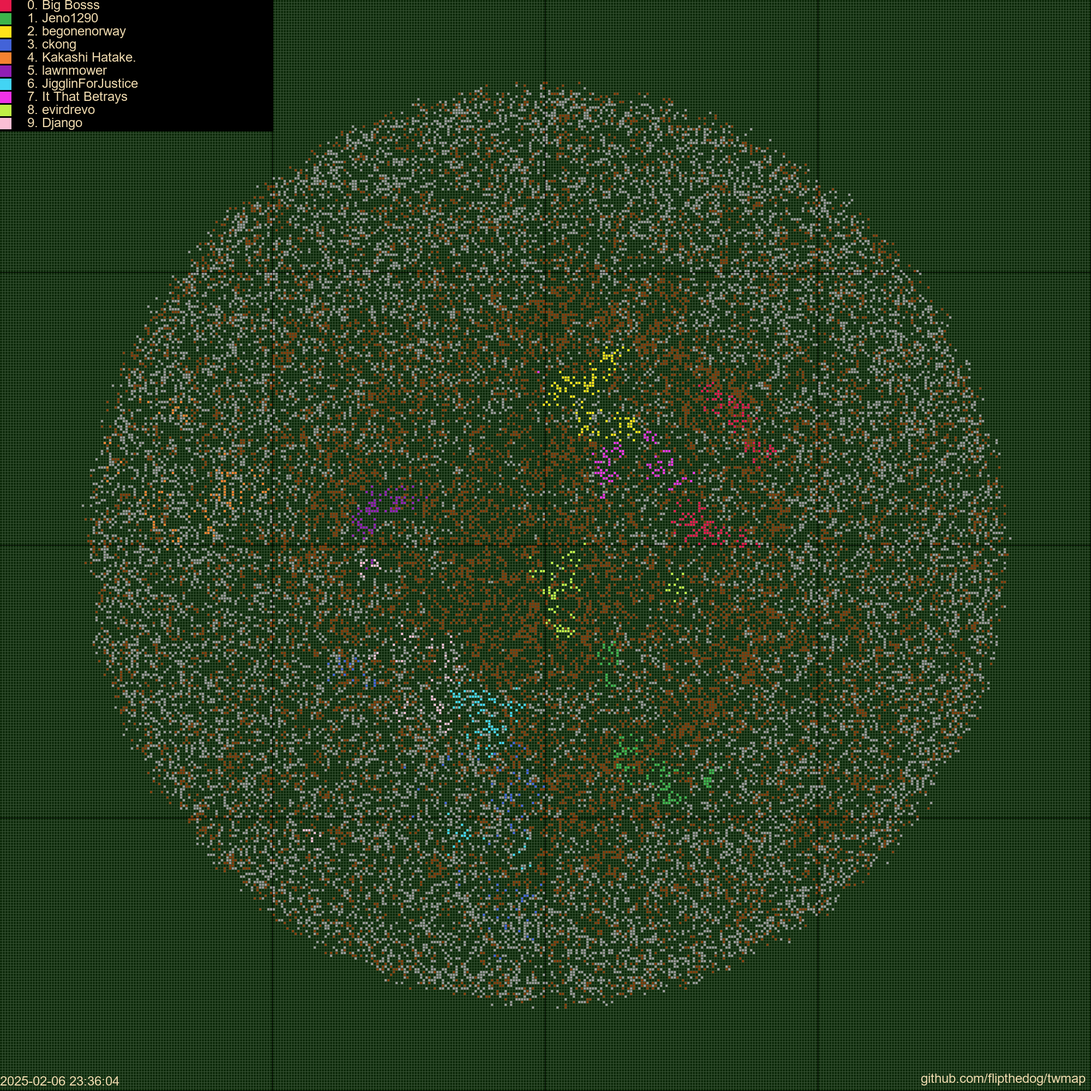
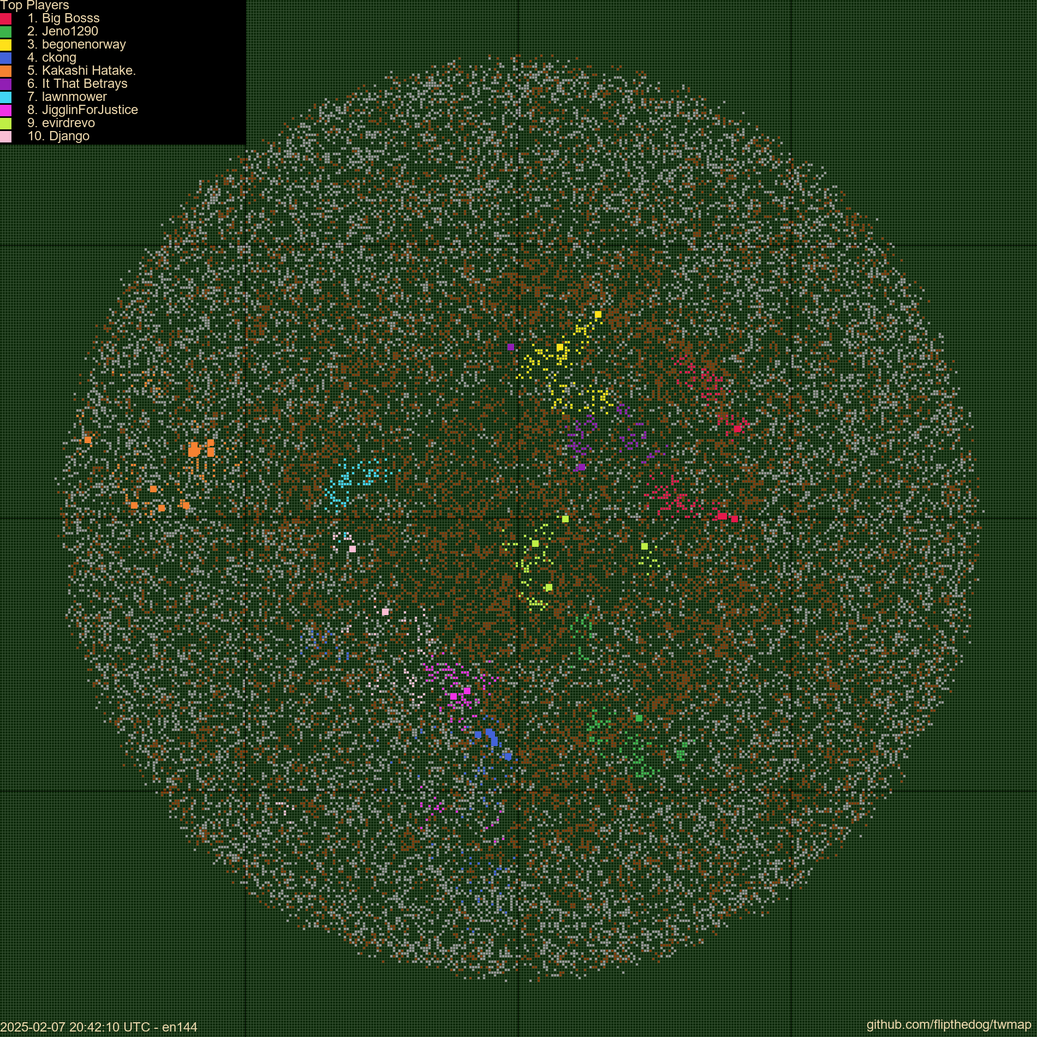
minor touches to make it look better

diff --git a/twmap/map/map.py b/twmap/map/map.py
@@ -18,7 +18,7 @@ from copy import deepcopy
 
 class Map:
 
-    def __init__(self, village_df: DataFrame, player_df: DataFrame, tribe_df: DataFrame, conquer_df: DataFrame, printed_datetime: str = None):
+    def __init__(self, village_df: DataFrame, player_df: DataFrame, tribe_df: DataFrame, conquer_df: DataFrame, printed_datetime: str = None, printed_world: str = None):
         """Load it with TW data and create a map
 
         Args:
@@ -34,7 +34,8 @@ class Map:
         self.conquer_df = conquer_df
         
         self.printed_datetime = printed_datetime
-
+        self.printed_world = printed_world
+        
         if self.printed_datetime is None:
             self.printed_datetime = datetime.now(timezone.utc).strftime("%Y-%m-%d %H:%M:%S")
             # TODO: read this from the file
@@ -58,9 +59,10 @@ class Map:
 
         self.show_barbarians = True
 
-        self.max_x = 0
-        self.max_y = 0
-
+        self.max_x = self.village_df['x_coord'].max() - self.world_origin + 20
+        self.max_y = self.village_df['y_coord'].max() - self.world_origin + 20
+        self.max_border = max(self.max_x, self.max_y)
+                
         self.zoom = 3
 
         self.cell_size = 4
@@ -88,7 +90,8 @@ class Map:
 
         self.grid_color = self.color_manager.grid_color
 
-        self.font = ImageFont.truetype("twmap/map/fonts/ARIAL.TTF", 24)  # Load the font here
+        self.font_size = 32
+        self.font = ImageFont.truetype("twmap/map/fonts/ARIAL.TTF", self.font_size)  # Load the font here
 
         self.initial_map()
 
@@ -160,7 +163,7 @@ class Map:
 
     def draw_legend(self, top_type: str = "players", image: Image = None):
         
-        image = self.crop_image(image, 200)
+        image = self.crop_image(image)
 
         if self.watermark:  
             image = self.watermark("github.com/flipthedog/twmap")
@@ -181,13 +184,13 @@ class Map:
             raise ValueError("Invalid top_type. Expected 'players' or 'tribes'.")
 
         # Add background
-        draw.rectangle([0, 0, 500, (len(ids) + 1) * 24], fill="#000000")
+        draw.rectangle([0, 0, 450, (len(ids) + 1) * self.font_size], fill="#000000")
 
         draw.text((0, 0), f"Top {top_type.capitalize()}", fill=self.tw_color, font=self.font, anchor="lt")
         
         for i in range(0, len(ids)):
-            draw.text((50, (i + 1) * 24), f"{i + 1}. {urllib.parse.unquote_plus(names[i])}", fill=self.tw_color, font=self.font, anchor="lt")
-            draw.rectangle([0, (i + 1) * 24, 20, (i + 1) * 24 + 20], fill=self.color_manager.get_color(ids[i]))
+            draw.text((50, (i + 1) * self.font_size), f"{i + 1}. {urllib.parse.unquote_plus(names[i])}", fill=self.tw_color, font=self.font, anchor="lt")
+            draw.rectangle([0, (i + 1) * self.font_size, 20, (i + 1) * self.font_size + 20], fill=self.color_manager.get_color(ids[i]))
 
         return image
 
@@ -215,9 +218,12 @@ class Map:
 
         return self.image
     
-    def crop_image(self, image: Image, spacing: int):
+    def crop_image(self, image: Image):
+        
+        spacing = self.max_border
         
         self.image =  image.crop(((self.world_origin - spacing) * (self.cell_size + self.spacing), (self.world_origin - spacing) * (self.cell_size + self.spacing), (self.world_origin + spacing) * (self.cell_size + self.spacing), (self.world_origin + spacing) * (self.cell_size + self.spacing)))
+        
         return self.image
 
     def draw_grid(self, image: Image, color: str, grid_spacing: int):
@@ -234,7 +240,10 @@ class Map:
     
     def add_current_date_time(self):
         draw = ImageDraw.Draw(self.image)
-        draw.text((0, self.image.height - 10), self.printed_datetime + " UTC", fill=self.tw_color, font=self.font, anchor="lb")
+        if self.printed_world:
+            draw.text((0, self.image.height - 10), self.printed_datetime + " UTC - " + self.printed_world, fill=self.tw_color, font=self.font, anchor="lb")
+        else:
+            draw.text((0, self.image.height - 10), self.printed_datetime + " UTC", fill=self.tw_color, font=self.font, anchor="lb")
         return self.image
 
     def watermark(self, text: str):

diff --git a/twmap/map/mapfactory.py b/twmap/map/mapfactory.py
@@ -35,7 +35,7 @@ class MapFactory:
             
             logging.info(f"Creating maps for world {world_id} at time {map_time}")
             
-            map = Map(self.village_models[i], self.player_models[i], self.tribe_models[i], self.conquer_models[i], map_time)
+            map = Map(self.village_models[i], self.player_models[i], self.tribe_models[i], self.conquer_models[i], map_time, world_id)
             
             if not os.path.exists(self.image_save_location):
                 os.makedirs(self.image_save_location)

diff --git a/twmap/main.py b/twmap/main.py
@@ -9,7 +9,7 @@ s3_paths = [
     "s3://tribalwars-scraped/en145/",
 ]
 
-MAX_IMAGES = None
+MAX_IMAGES = 1
 
 for s3_path in s3_paths:
     map_factory = MapFactory(s3_path, refresh=False)
